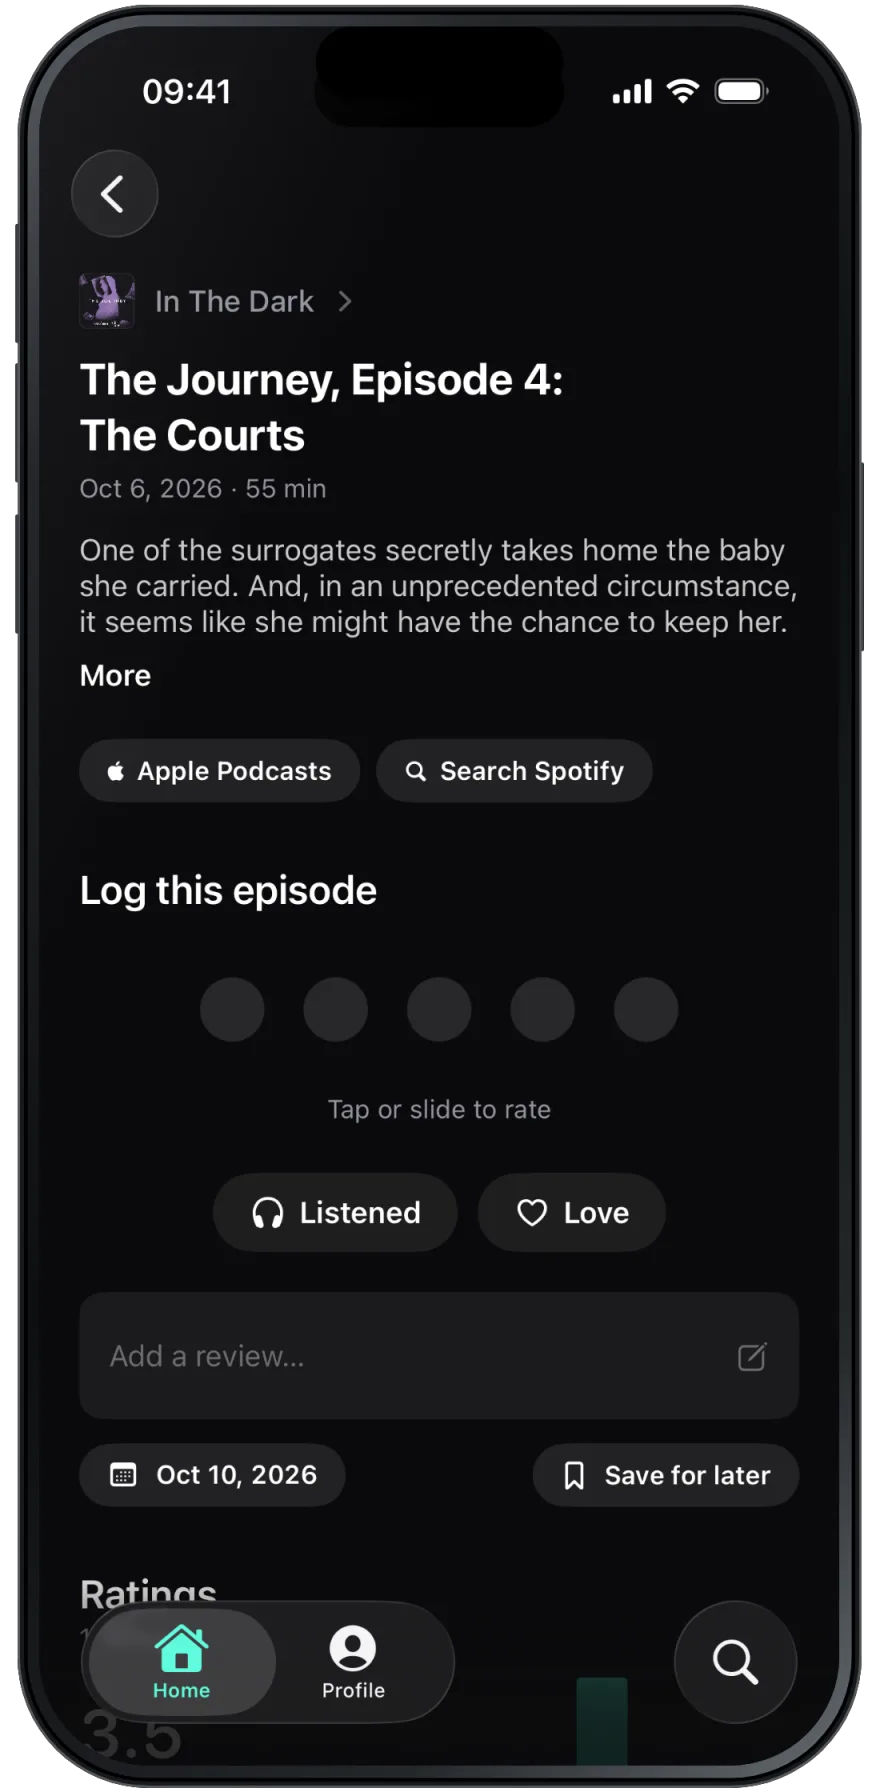
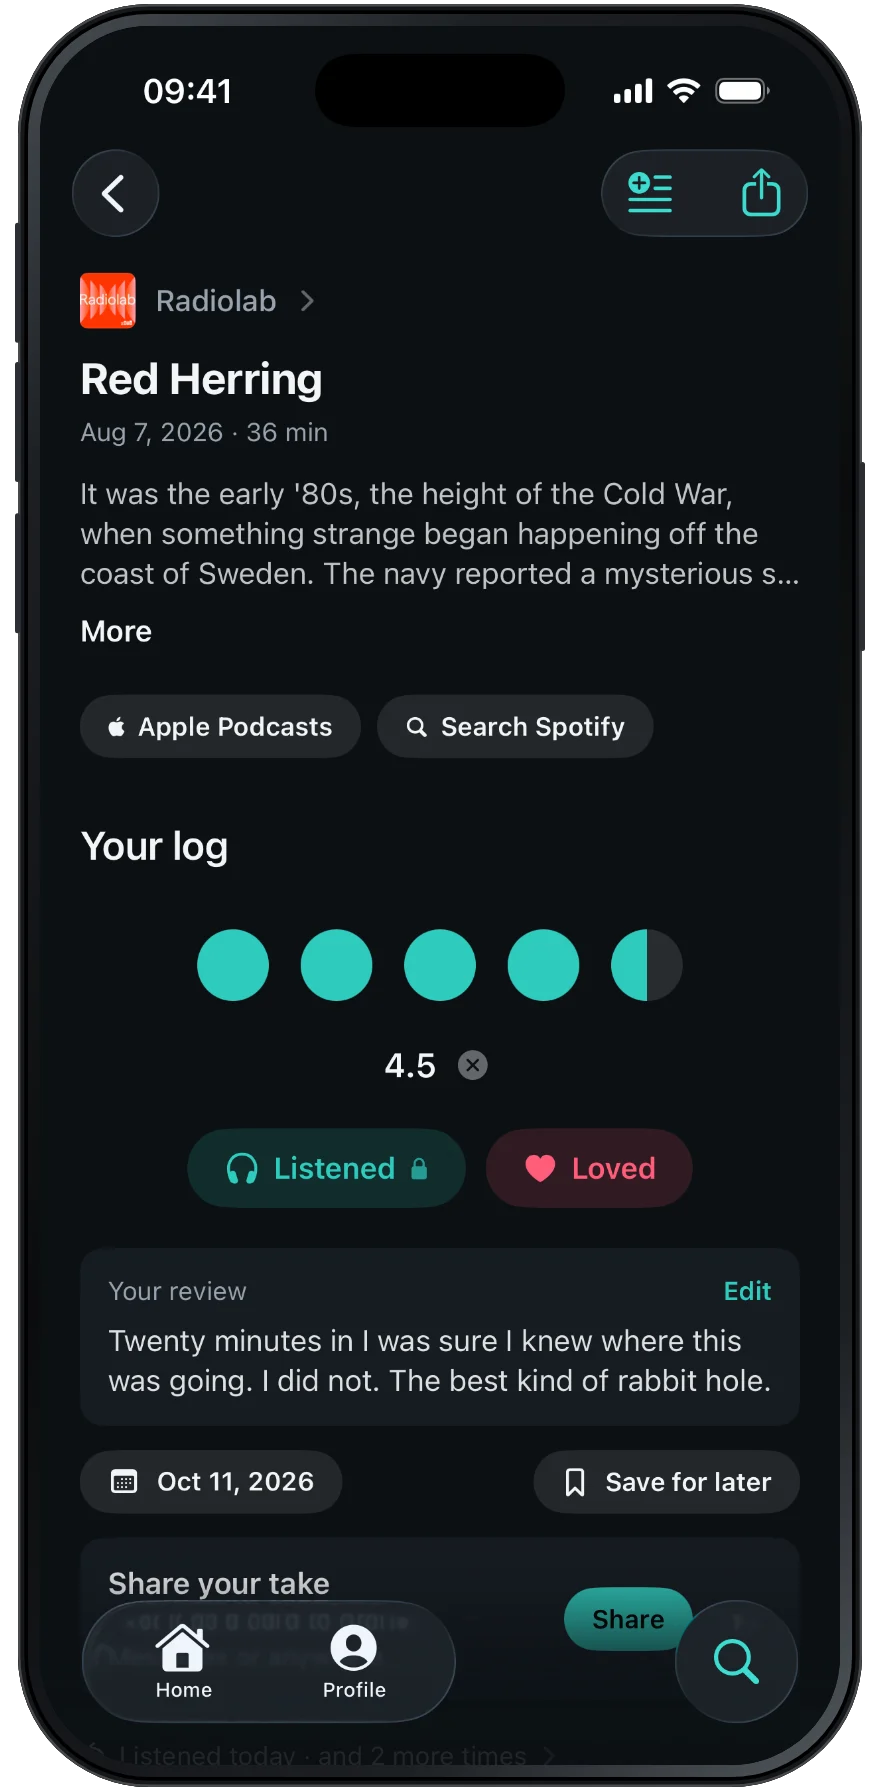
feat(sonar): sea-glass brand on /sonar, with fresh screenshots
- New phone images, crops and OG image rendered from the app repo's marketing kit
  (current build, design-preview fixture people).
- sonar.css mirrors the app's palette and follows its marketing/BRAND.md: solid teal
  accents instead of gradient text, no glows or halos, no tracked caps, Bold/Semibold
  instead of Black/Heavy, flat canvas, quieter rings.
- Alt text matches the new screenshots.

diff --git a/app/static/site/works/sonar.css b/app/static/site/works/sonar.css
@@ -3,64 +3,63 @@
    app (static/site/README.md, "A product's own page"). Every value Sonar owns is a --sn-* token
    below; the site's tokens still give the spacing, the motion and the frame around it. */
 .sn-page {
-  --sn-ink: #05070b;
-  --sn-panel: #0c1116;
-  --sn-panel-2: #121a20;
-  --sn-text: #f4f6f5;
-  --sn-text-2: #a9afb8;
-  --sn-text-3: #6f7681;
-  --sn-line: rgba(0, 229, 200, 0.14);
-  --sn-teal: #00e5c8;
-  --sn-teal-hi: #5fffe6;
-  --sn-sky: #00c2ff;
-  --sn-off: #2c3138;
-  --sn-glow: rgba(0, 229, 200, 0.35);
+  /* Mirrors SonarPalette in the app; the rules for using them are the app repo's
+     marketing/BRAND.md: one solid teal accent, no gradients, no glows, no tracked caps. */
+  --sn-ink: #0C1014;
+  --sn-panel: #161B21;
+  --sn-panel-2: #1F262E;
+  --sn-text: #F3F5F7;
+  --sn-text-2: #98A2AD;
+  --sn-text-3: rgba(243, 245, 247, 0.38);
+  --sn-line: rgba(243, 245, 247, 0.08);
+  --sn-teal: #2FCBBD;
+  --sn-off: #1F262E;
+  --sn-lift: 0 0 0 1px rgba(243, 245, 247, 0.08), 0 30px 60px rgba(0, 0, 0, 0.6);
   --sn-round: ui-rounded, "SF Pro Rounded", "Nunito", var(--font);
-  --sn-gradient: linear-gradient(100deg, var(--sn-teal-hi) 0%, var(--sn-teal) 45%, var(--sn-sky) 110%);
 
   background: var(--sn-ink);
   overflow-x: clip;
 }
-/* The page's own wash: the radar's light from the top right, fading into ink. */
-.sn-page .page { background: radial-gradient(90vw 70vh at 78% 8%, rgba(0, 229, 200, 0.10), transparent 70%), radial-gradient(60vw 50vh at 10% 0%, rgba(0, 194, 255, 0.05), transparent 70%); }
+/* Flat canvas: depth comes from the devices, not from light. */
+.sn-page .page { background: var(--sn-ink); }
 .sn-page .tabs a[aria-current="page"] { color: var(--sn-teal); }
 
 .sn { position: relative; color: var(--sn-text); }
-.sn em { font-style: normal; background: var(--sn-gradient); -webkit-background-clip: text; background-clip: text; color: transparent; }
+.sn em { font-style: normal; color: var(--sn-teal); }
 
 /* ---------------------------------------------------------------- type */
 .sn-eyebrow {
   display: inline-flex; align-items: center; gap: 12px;
-  font: 900 13px/1 var(--sn-round); letter-spacing: 0.32em; text-transform: uppercase; color: var(--sn-teal);
+  font: 600 16px/1 var(--sn-round); color: var(--sn-teal);
 }
-.sn-eyebrow img { width: 28px; height: 28px; border-radius: 7px; box-shadow: 0 0 0 1px var(--sn-line), 0 0 24px var(--sn-glow); }
+.sn-eyebrow img { width: 28px; height: 28px; border-radius: 7px; box-shadow: 0 0 0 1px var(--sn-line); }
 .sn-display {
   margin-top: var(--s3);
-  font: 900 clamp(52px, 8.4vw, 116px)/0.94 var(--sn-round); letter-spacing: -0.035em; color: var(--sn-text);
+  font: 700 clamp(52px, 8.4vw, 116px)/0.94 var(--sn-round); letter-spacing: -0.035em; color: var(--sn-text);
   text-wrap: balance;
 }
-.sn-display em { filter: drop-shadow(0 0 28px rgba(0, 229, 200, 0.3)); padding-right: 0.04em; }
+.sn-display em { padding-right: 0.04em; }
 .sn-sub { margin-top: var(--s3); max-width: 30ch; color: var(--sn-text-2); font-size: clamp(18px, 1.6vw, 22px); line-height: 1.4; letter-spacing: -0.005em; }
-.sn-h2 { font: 900 clamp(38px, 5vw, 64px)/0.98 var(--sn-round); letter-spacing: -0.03em; color: var(--sn-text); text-wrap: balance; }
-.sn-kicker { display: flex; align-items: center; gap: 10px; margin-bottom: var(--s3); font: 900 12px/1 var(--sn-round); letter-spacing: 0.34em; text-transform: uppercase; color: var(--sn-teal); }
+.sn-h2 { font: 700 clamp(38px, 5vw, 64px)/0.98 var(--sn-round); letter-spacing: -0.03em; color: var(--sn-text); text-wrap: balance; }
+.sn-kicker { display: flex; align-items: center; gap: 10px; margin-bottom: var(--s3); font: 600 16px/1 var(--sn-round); color: var(--sn-teal); }
 .sn-kicker::before { content: ""; width: 8px; height: 8px; border-radius: 50%; background: var(--sn-teal); box-shadow: 0 0 14px var(--sn-teal); }
 .sn-body { margin-top: var(--s3); max-width: 42ch; color: var(--sn-text-2); font-size: 17px; line-height: 1.6; }
 
 /* ---------------------------------------------------------------- actions */
 .sn-get {
   display: inline-flex; align-items: center; gap: 14px; min-height: 60px; padding: 10px 26px 10px 18px;
-  border-radius: 999px; background: var(--sn-teal); color: #001a16;
-  box-shadow: 0 0 0 1px rgba(95, 255, 230, 0.6) inset, 0 12px 40px -8px rgba(0, 229, 200, 0.55), 0 0 0 0 rgba(0, 229, 200, 0.4);
+  border-radius: 999px; background: var(--sn-teal); color: var(--sn-ink);
+  box-shadow: 0 12px 30px -10px rgba(0, 0, 0, 0.6);
   transition: transform var(--t-mid) var(--ease), box-shadow var(--t-mid) var(--ease), background var(--t-mid) var(--ease);
 }
 .sn-get svg { width: 26px; height: 26px; flex: none; }
-.sn-get > span { display: flex; flex-direction: column; font: 900 18px/1.1 var(--sn-round); letter-spacing: -0.01em; }
-.sn-get small { white-space: nowrap; font: 700 11px/1.3 var(--font); letter-spacing: 0.08em; text-transform: uppercase; opacity: 0.72; }
-.sn-get:hover, .sn-get:focus-visible { transform: translateY(-2px); background: var(--sn-teal-hi); box-shadow: 0 0 0 1px rgba(95, 255, 230, 0.8) inset, 0 18px 50px -8px rgba(0, 229, 200, 0.7), 0 0 0 8px rgba(0, 229, 200, 0.12); }
+.sn-get > span { display: flex; flex-direction: column; font: 700 18px/1.1 var(--sn-round); letter-spacing: -0.01em; }
+.sn-get small { white-space: nowrap; font: 700 11px/1.3 var(--font); opacity: 0.72; }
+.sn-get:hover, .sn-get:focus-visible { transform: translateY(-2px); box-shadow: 0 18px 40px -10px rgba(0, 0, 0, 0.7); }
 .sn-get:focus-visible { outline: 2px solid var(--sn-text); outline-offset: 4px; }
 .sn-ghost {
   display: inline-flex; align-items: center; min-height: 60px; padding: 0 22px; border-radius: 999px;
-  color: var(--sn-text); font: 800 16px/1 var(--sn-round); box-shadow: 0 0 0 1px rgba(244, 246, 245, 0.18) inset;
+  color: var(--sn-text); font: 600 16px/1 var(--sn-round); box-shadow: 0 0 0 1px rgba(244, 246, 245, 0.18) inset;
   transition: box-shadow var(--t-mid) var(--ease), color var(--t-mid) var(--ease);
 }
 .sn-ghost svg { width: 20px; height: 20px; margin-right: 10px; flex: none; }
@@ -68,10 +67,10 @@
 
 /* ---------------------------------------------------------------- the rings */
 .sn-rings { position: absolute; pointer-events: none; overflow: visible; }
-.sn-rings circle { fill: none; stroke: var(--sn-teal); stroke-width: calc(2.4px - var(--k) * 0.3px); opacity: calc(0.26 - var(--k) * 0.038); }
+.sn-rings circle { fill: none; stroke: var(--sn-teal); stroke-width: calc(2.4px - var(--k) * 0.3px); opacity: calc(0.12 - var(--k) * 0.012); }
 .sn-rings .sn-rings__ping { stroke-width: 1.5px; vector-effect: non-scaling-stroke; opacity: 0; transform-origin: 0 0; animation: sn-ping 5.6s cubic-bezier(0.2, 0.6, 0.2, 1) infinite; }
 .sn-rings .sn-rings__ping--2 { animation-delay: 2.8s; }
-@keyframes sn-ping { 0% { transform: scale(1); opacity: 0.55; } 100% { transform: scale(7.4); opacity: 0; } }
+@keyframes sn-ping { 0% { transform: scale(1); opacity: 0.24; } 100% { transform: scale(7.4); opacity: 0; } }
 
 /* ---------------------------------------------------------------- hero */
 .sn-page .tabs { position: relative; z-index: 2; }
@@ -86,12 +85,12 @@
 .sn-pills { display: flex; flex-wrap: wrap; gap: 10px; margin: var(--s4) 0 0; padding: 0; list-style: none; }
 .sn-pills li {
   display: inline-flex; align-items: center; gap: 9px; padding: 9px 16px; border-radius: 999px;
-  font: 800 14px/1 var(--sn-round); color: #dffffa; background: rgba(0, 229, 200, 0.07); box-shadow: 0 0 0 1px rgba(0, 229, 200, 0.3) inset;
+  font: 600 14px/1 var(--sn-round); color: var(--sn-text); background: var(--sn-panel);
 }
 .sn-pills li::before { content: ""; width: 7px; height: 7px; border-radius: 50%; background: var(--sn-teal); box-shadow: 0 0 10px var(--sn-teal); }
 
 .sn-hero__stage { position: relative; height: 680px; }
-.sn-hero__halo { position: absolute; left: 50%; top: 50%; width: 80%; height: 90%; transform: translate(-50%, -50%); border-radius: 50%; background: radial-gradient(closest-side, rgba(0, 229, 200, 0.32), transparent); filter: blur(40px); }
+.sn-hero__halo { position: absolute; left: 50%; top: 50%; width: 80%; height: 90%; transform: translate(-50%, -50%); border-radius: 50%; display: none; }
 .sn-phone { display: block; height: auto; filter: drop-shadow(0 40px 60px rgba(0, 0, 0, 0.6)); user-select: none; -webkit-user-drag: none; }
 .sn-phone--hero { position: absolute; top: 50%; left: 50%; }
 .sn-phone--front { width: 320px; z-index: 2; transform: translate(-50%, -50%); animation: sn-float 9s ease-in-out infinite; }
@@ -100,15 +99,15 @@
 @keyframes sn-float { 0%, 100% { transform: translate(-50%, -50%); } 50% { transform: translate(-50%, calc(-50% - 12px)); } }
 
 .sn-card {
-  position: absolute; z-index: 3; height: auto; border-radius: 18px; background: #121216;
-  box-shadow: 0 0 0 1.5px rgba(0, 229, 200, 0.55), 0 0 0 7px rgba(0, 229, 200, 0.07), 0 0 70px rgba(0, 229, 200, 0.25), 0 30px 60px rgba(0, 0, 0, 0.65);
+  position: absolute; z-index: 3; height: auto; border-radius: 18px; background: var(--sn-ink);
+  box-shadow: var(--sn-lift);
 }
 .sn-card--hero { width: 360px; left: 50%; top: 66%; transform: translateX(-88%) rotate(-3deg); animation: sn-bob 7s ease-in-out infinite; }
 @keyframes sn-bob { 0%, 100% { translate: 0 0; } 50% { translate: 0 -8px; } }
 
 /* ---------------------------------------------------------------- the problem */
 .sn-problem { position: relative; margin-top: var(--s16); padding: var(--s12) 0; border-block: 1px solid var(--sn-line); text-align: center; }
-.sn-statement { margin-inline: auto; max-width: 22ch; font: 900 clamp(30px, 4.4vw, 56px)/1.08 var(--sn-round); letter-spacing: -0.025em; color: var(--sn-text); text-wrap: balance; }
+.sn-statement { margin-inline: auto; max-width: 22ch; font: 700 clamp(30px, 4.4vw, 56px)/1.08 var(--sn-round); letter-spacing: -0.025em; color: var(--sn-text); text-wrap: balance; }
 .sn-statement b { font-weight: inherit; color: var(--sn-teal); }
 .sn-statement span { color: var(--sn-text-3); }
 .sn-problem__answer { margin: var(--s4) auto 0; max-width: 46ch; color: var(--sn-text-2); font-size: 18px; line-height: 1.55; }
@@ -117,7 +116,7 @@
 .sn-feat { position: relative; display: grid; grid-template-columns: minmax(0, 1fr) minmax(0, 1fr); align-items: center; gap: var(--s8); margin-top: var(--s16); }
 .sn-feat--flip .sn-feat__copy { order: 2; }
 .sn-feat__media { position: relative; display: flex; justify-content: center; padding: var(--s5) 0; }
-.sn-feat__media::before { content: ""; position: absolute; inset: 10% 15%; border-radius: 50%; background: radial-gradient(closest-side, rgba(0, 229, 200, 0.22), transparent); filter: blur(30px); }
+
 .sn-feat__media .sn-phone { position: relative; width: min(300px, 70%); }
 .sn-card--c { width: min(330px, 74%); left: 0; bottom: 14%; transform: rotate(-2.5deg); }
 .js .sn-feat__media .sn-card { opacity: 0; translate: 0 24px; transition: opacity var(--t-slow) var(--ease) 0.35s, translate var(--t-slow) var(--ease) 0.35s; }
@@ -125,12 +124,12 @@
 
 .sn-ticks { margin: var(--s4) 0 0; padding: 0; list-style: none; }
 .sn-ticks li { position: relative; padding: 12px 0 12px 30px; border-top: 1px solid var(--sn-line); color: var(--sn-text); font-size: 16px; }
-.sn-ticks li::before { content: ""; position: absolute; left: 4px; top: 50%; width: 10px; height: 10px; margin-top: -5px; border-radius: 50%; background: var(--sn-teal); box-shadow: 0 0 12px var(--sn-glow); }
+.sn-ticks li::before { content: ""; position: absolute; left: 4px; top: 50%; width: 10px; height: 10px; margin-top: -5px; border-radius: 50%; background: var(--sn-teal); }
 
 .sn-stats { display: grid; grid-template-columns: repeat(3, 1fr); gap: 10px; margin: var(--s4) 0 0; max-width: 420px; }
 .sn-stats div { padding: 16px 18px; border-radius: 16px; background: var(--sn-panel); box-shadow: 0 0 0 1px var(--sn-line) inset; }
-.sn-stats dt { color: var(--sn-text-3); font: 800 11px/1 var(--sn-round); letter-spacing: 0.14em; text-transform: uppercase; }
-.sn-stats dd { margin: 10px 0 0; font: 900 34px/1 var(--sn-round); color: var(--sn-text); font-variant-numeric: tabular-nums; }
+.sn-stats dt { color: var(--sn-text-3); font: 600 11px/1 var(--sn-round); }
+.sn-stats dd { margin: 10px 0 0; font: 700 34px/1 var(--sn-round); color: var(--sn-text); font-variant-numeric: tabular-nums; }
 
 /* The rater: Sonar's five dots, live. Each dot is two halves; JS sets --fill on each (0, .5, 1). */
 .sn-try { margin-top: var(--s5); padding: 20px 22px 18px; max-width: 420px; border-radius: 22px; background: var(--sn-panel); box-shadow: 0 0 0 1px var(--sn-line) inset; }
@@ -139,10 +138,9 @@
 .sn-rater:focus-visible { outline: 2px solid var(--sn-teal); outline-offset: 4px; }
 .sn-rater__dot { position: relative; width: 44px; height: 44px; border-radius: 50%; background: var(--sn-off); overflow: hidden; transition: transform 0.2s var(--ease); }
 .sn-rater__dot i { position: absolute; inset: 0; background: var(--sn-teal); clip-path: inset(0 calc(100% - var(--fill, 0) * 100%) 0 0); transition: clip-path 0.18s var(--ease); }
-.sn-rater__dot.is-on { box-shadow: 0 0 18px var(--sn-glow); }
 .sn-rater__dot.is-pop { transform: scale(1.14); }
-.sn-try__out { display: flex; align-items: baseline; gap: 4px; margin-top: 14px; color: var(--sn-text-3); font: 800 15px/1 var(--sn-round); }
-.sn-try__out b { color: var(--sn-text); font-size: 30px; font-weight: 900; font-variant-numeric: tabular-nums; }
+.sn-try__out { display: flex; align-items: baseline; gap: 4px; margin-top: 14px; color: var(--sn-text-3); font: 600 15px/1 var(--sn-round); }
+.sn-try__out b { color: var(--sn-text); font-size: 30px; font-weight: 700; font-variant-numeric: tabular-nums; }
 .sn-try__out em { margin-left: 10px; font-size: 17px; }
 
 /* ---------------------------------------------------------------- everything */
@@ -151,32 +149,32 @@
 .sn-tiles { display: grid; grid-template-columns: repeat(3, minmax(0, 1fr)); gap: 14px; margin: var(--s8) 0 0; padding: 0; list-style: none; }
 .sn-tiles li {
   position: relative; padding: 26px 24px 28px; border-radius: 24px; overflow: hidden;
-  background: linear-gradient(160deg, var(--sn-panel-2), var(--sn-panel) 60%); box-shadow: 0 0 0 1px var(--sn-line) inset;
+  background: var(--sn-panel); box-shadow: 0 0 0 1px var(--sn-line) inset;
   transition: box-shadow var(--t-mid) var(--ease), transform var(--t-mid) var(--ease);
 }
-.sn-tiles li:hover { transform: translateY(-3px); box-shadow: 0 0 0 1px rgba(0, 229, 200, 0.4) inset, 0 20px 50px -20px rgba(0, 229, 200, 0.35); }
-.sn-tiles h3 { margin-top: 20px; font: 900 21px/1.15 var(--sn-round); letter-spacing: -0.01em; color: var(--sn-text); }
+.sn-tiles li:hover { transform: translateY(-3px); box-shadow: 0 0 0 1px rgba(243, 245, 247, 0.16) inset, 0 20px 50px -20px rgba(0, 0, 0, 0.6); }
+.sn-tiles h3 { margin-top: 20px; font: 700 21px/1.15 var(--sn-round); letter-spacing: -0.01em; color: var(--sn-text); }
 .sn-tiles p { margin-top: 8px; color: var(--sn-text-2); font-size: 15px; line-height: 1.5; }
 
 /* The tiles' marks, drawn in Sonar's language: teal on dark, dots and rings. */
-.sn-ico { position: relative; display: flex; align-items: center; justify-content: center; width: 48px; height: 48px; border-radius: 14px; background: rgba(0, 229, 200, 0.1); box-shadow: 0 0 0 1px rgba(0, 229, 200, 0.28) inset; color: var(--sn-teal); }
+.sn-ico { position: relative; display: flex; align-items: center; justify-content: center; width: 48px; height: 48px; border-radius: 14px; background: var(--sn-panel-2); color: var(--sn-teal); }
 .sn-ico--friends::before, .sn-ico--friends::after { content: ""; position: absolute; top: 15px; width: 16px; height: 16px; border-radius: 50%; border: 3px solid var(--sn-teal); box-sizing: border-box; }
 .sn-ico--friends::before { left: 10px; }
-.sn-ico--friends::after { left: 21px; background: rgba(0, 229, 200, 0.35); }
+.sn-ico--friends::after { left: 21px; background: rgba(47, 203, 189, 0.45); }
 .sn-ico--dots { gap: 3px; width: max-content; padding: 0 10px; }
 .sn-ico--dots i { width: 7px; height: 7px; border-radius: 50%; background: var(--sn-teal); }
 .sn-ico--dots i:nth-child(4) { background: linear-gradient(90deg, var(--sn-teal) 50%, var(--sn-off) 50%); }
 .sn-ico--dots i:nth-child(5) { background: var(--sn-off); }
-.sn-ico--quote { font: 900 40px/1 var(--sn-round); padding-top: 18px; }
+.sn-ico--quote { font: 700 40px/1 var(--sn-round); padding-top: 18px; }
 .sn-ico--heart::before { content: ""; width: 18px; height: 18px; background: var(--sn-teal); clip-path: path("M9 17 1.6 9.6A4.6 4.6 0 0 1 9 3.4a4.6 4.6 0 0 1 7.4 6.2Z"); }
 .sn-ico--flame::before { content: ""; width: 16px; height: 22px; background: var(--sn-teal); border-radius: 50% 50% 50% 50% / 60% 60% 40% 40%; clip-path: polygon(50% 0, 82% 34%, 100% 66%, 82% 92%, 50% 100%, 18% 92%, 0 66%, 22% 40%, 36% 52%); }
 .sn-ico--later::before { content: ""; width: 20px; height: 20px; border-radius: 50%; border: 3px solid var(--sn-teal); box-sizing: border-box; }
 .sn-ico--later::after { content: ""; position: absolute; left: 23px; top: 18px; width: 6px; height: 8px; border: solid var(--sn-teal); border-width: 0 0 2.5px 2.5px; }
 
 /* ---------------------------------------------------------------- the close */
-.sn-close { position: relative; margin-top: var(--s20); padding: var(--s16) var(--s3) var(--s12); text-align: center; border-radius: 36px; overflow: hidden; background: radial-gradient(60% 70% at 50% 30%, rgba(0, 229, 200, 0.14), transparent 70%), var(--sn-panel); box-shadow: 0 0 0 1px var(--sn-line) inset; isolation: isolate; }
+.sn-close { position: relative; margin-top: var(--s20); padding: var(--s16) var(--s3) var(--s12); text-align: center; border-radius: 36px; overflow: hidden; background: var(--sn-panel); box-shadow: 0 0 0 1px var(--sn-line) inset; isolation: isolate; }
 .sn-close > .sn-rings { width: 1200px; height: 1200px; left: 50%; top: 150px; transform: translate(-50%, -50%); z-index: -1; }
-.sn-close__icon { display: block; width: 112px; height: 112px; margin: 0 auto; border-radius: 26px; box-shadow: 0 0 0 1px rgba(0, 229, 200, 0.4), 0 0 60px rgba(0, 229, 200, 0.4), 0 20px 40px rgba(0, 0, 0, 0.6); }
+.sn-close__icon { display: block; width: 112px; height: 112px; margin: 0 auto; border-radius: 26px; box-shadow: var(--sn-lift); }
 .sn-display--close { margin-top: var(--s5); font-size: clamp(44px, 6.4vw, 88px); }
 .sn-close .sn-sub { margin-inline: auto; }
 .sn-close__cta { display: flex; flex-wrap: wrap; justify-content: center; gap: var(--s2); margin-top: var(--s5); }
@@ -202,7 +200,7 @@
   .sn-phone--right { transform: translate(0%, -46%) rotate(9deg); }
   .sn-card--hero { width: 250px; transform: translateX(-70%) rotate(-3deg); }
   .sn-hero__cta > *, .sn-close__cta > * { flex: 1 1 100%; justify-content: center; }
-  .sn-get small { font-size: 10px; letter-spacing: 0.04em; }
+  .sn-get small { font-size: 11px; }
   .sn-problem { margin-top: var(--s12); padding: var(--s8) 0; }
   .sn-feat { margin-top: var(--s12); }
   .sn-tiles { grid-template-columns: 1fr; }

diff --git a/app/templates/works/sonar/sonar.html b/app/templates/works/sonar/sonar.html
@@ -155,7 +155,7 @@
       </div>
     </div>
     <div class="sn-feat__media" data-reveal>
-      {{ phone("episode", "An episode page in Sonar: show notes, links to Apple Podcasts and Spotify, and five dots to rate it.") }}
+      {{ phone("episode", "An episode page in Sonar, rated four and a half dots and loved, with a short review.") }}
     </div>
   </section>
 
@@ -171,8 +171,8 @@
       </dl>
     </div>
     <div class="sn-feat__media" data-reveal>
-      {{ phone("profile", "A Sonar profile: followers, a streak, listening stats and a rating distribution.") }}
-      <img class="sn-card sn-card--c" src="{{ img }}crop-stats.webp" alt="Ratings: an average of 3.7 and a histogram of every score given." width="1126" height="480" loading="lazy">
+      {{ phone("profile", "A Sonar profile: followers, a 12-day streak, a monthly recap, a diary and favorite shows.") }}
+      <img class="sn-card sn-card--c" src="{{ img }}crop-stats.webp" alt="Ratings: an average of 3.2 and a histogram of every score given." width="1126" height="480" loading="lazy">
     </div>
   </section>
 
